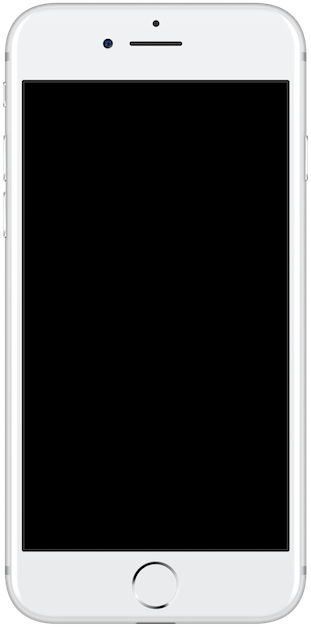
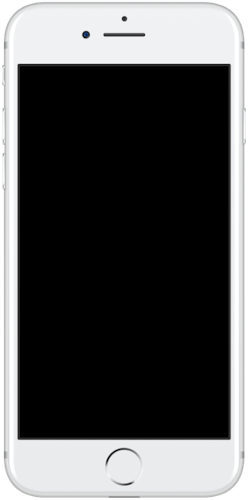
fazendo o desafio

Changed region(s): [[0.9032, 0.12, 0.9315, 0.87], [0.0565, 0.12, 0.0847, 0.87]]

diff --git a/desafios/desafio014/style/index.css b/desafios/desafio014/style/index.css
@@ -1,0 +1,35 @@
+@charset "UTF-8";
+
+*{
+    margin: 0;
+    padding: 0;
+    font-family: Arial, Helvetica, sans-serif;
+}
+
+html, body{
+    height: 100vh;
+    width: 100vw;
+    background-color: black;
+}
+
+body{
+    background: black url(../pacote-d013/imagens/fundo-madeira.jpg) no-repeat center center fixed;
+    background-size: cover;
+}
+
+main{
+    position: relative;
+    height: 100vh;
+}
+
+section#celular{
+    position: absolute;
+    top: 50%;
+    left: 50%;
+    transform: translate(-50%, -50%);
+
+    height: 500px;
+    width: 247px;
+    background: url(../pacote-d013/imagens/frame-iphone.png) no-repeat;
+}
+

diff --git a/desafios/desafio014/pacote-d013/index.html b/desafios/desafio014/pacote-d013/index.html
@@ -1,0 +1,20 @@
+<!DOCTYPE html>
+<html lang="pt-br">
+<head>
+    <meta charset="UTF-8">
+    <meta name="viewport" content="width=device-width, initial-scale=1.0">
+    <title>social midia</title>
+    <link rel="shortcut icon" href="favicon.ico" type="image/x-icon">
+    <link rel="stylesheet" href="../style/index.css">
+</head>
+<body>
+    <main>
+        <section id="celular">
+
+        </section>
+        <section id="redes-sociais">
+
+        </section>
+    </main>
+</body>
+</html>

diff --git a/desafios/desafio001/social.html b/desafios/desafio001/social.html
@@ -1,3 +1,4 @@
+
 <!DOCTYPE html>
 <html lang="pt
 ">
